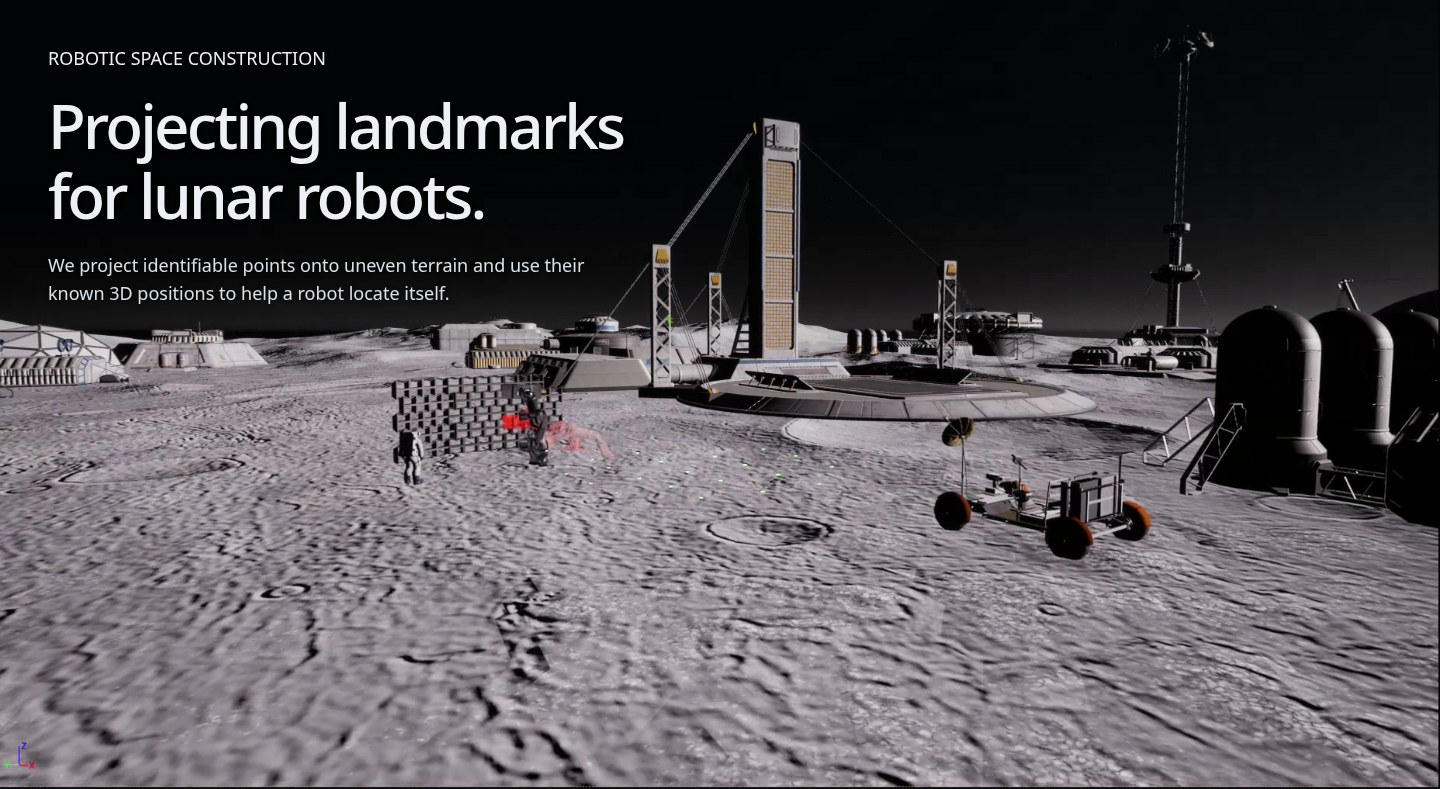
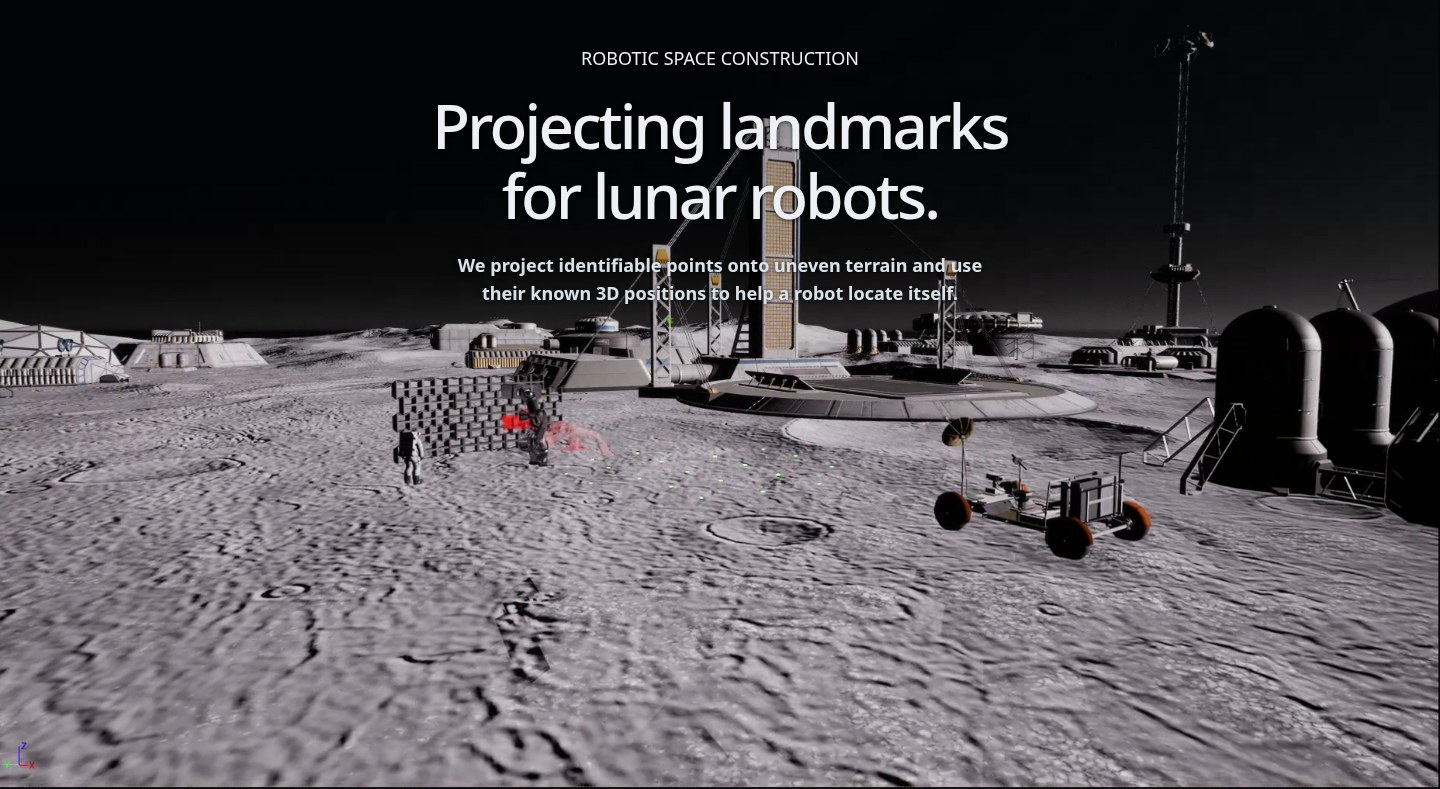
Center Lunar hero text and bold the subtitle

diff --git a/projects/lunar-construction/lunar-hero.css b/projects/lunar-construction/lunar-hero.css
@@ -19,10 +19,10 @@
 }
 .research-page .lunar-hero .hero-overlay {
   min-height: var(--hero-height);
-  align-items: flex-start;
+  align-items: center;
   justify-content: flex-start;
   padding: clamp(24px, 3vw, 56px) var(--page-gutter);
-  text-align: left;
+  text-align: center;
   /* Only the sky behind the headline needs a light readability scrim. */
   background: linear-gradient(180deg, #090d134d, #090d1326 28%, transparent 52%);
 }
@@ -30,11 +30,12 @@
   max-width: 660px;
   text-shadow: 0 1px 4px #000a;
 }
-.research-page .lunar-page .lunar-hero h1 { margin-inline: 0; }
+.research-page .lunar-page .lunar-hero h1 { margin-inline: auto; }
 .research-page .lunar-hero .lunar-subtitle {
   max-width: 570px;
-  margin-inline: 0;
+  margin-inline: auto;
   color: #d9e1e9;
+  font-weight: 700;
   line-height: 1.6;
   text-wrap: pretty;
 }

diff --git a/docs/lunar-video-hero/README.md b/docs/lunar-video-hero/README.md
@@ -1,6 +1,6 @@
 # Lunar Construction video Hero verification
 
-The Hero now uses the supplied lunar localization recording with the existing title and subtitle over its sky. Only the Lunar page loads `lunar-hero.css`. The media covers the entire Hero with no side margins, feathering, or blurred extension. The phone crop favors the projected landmarks and worker; the full recording remains in the asset. The existing motion control also pauses the Hero.
+The Hero now uses the supplied lunar localization recording with the existing title and subtitle over its sky. The headline group is horizontally centered at every width, and the subtitle uses font weight 700. Only the Lunar page loads `lunar-hero.css`. The media covers the entire Hero with no side margins, feathering, or blurred extension. The phone crop favors the projected landmarks and worker; the full recording remains in the asset. The existing motion control also pauses the Hero.
 
 ## Optimized media
 
